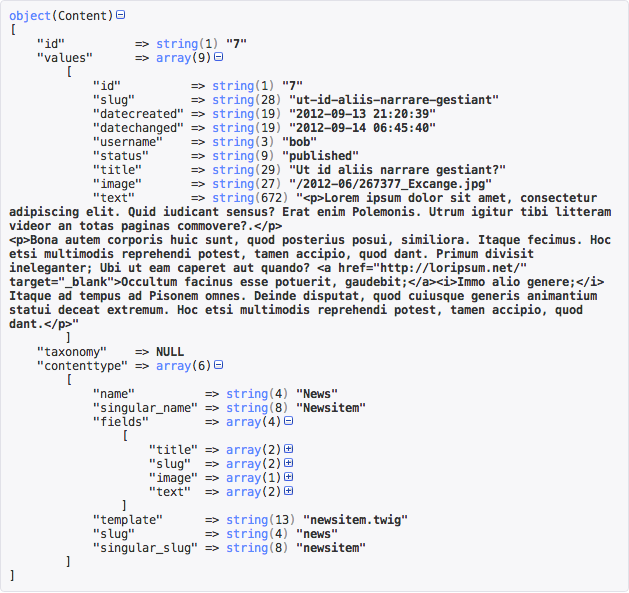
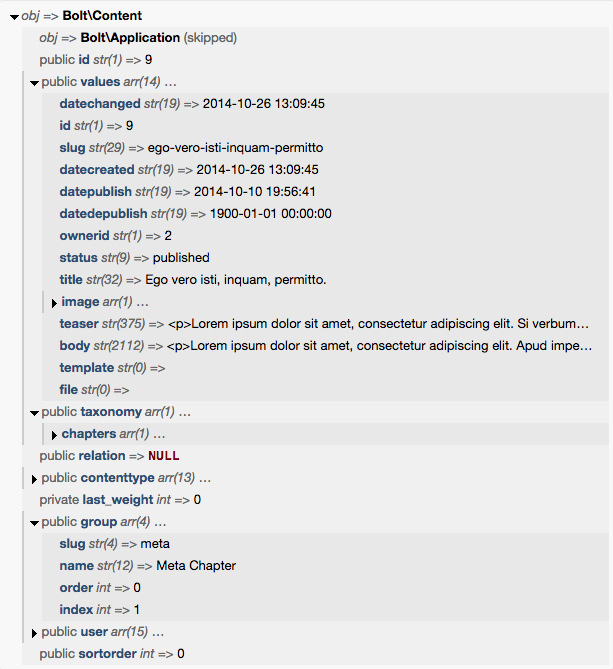
Cleaned up the "fixed fields".Fixes #95

Changed region(s): [[0.0, 0.0, 0.9918, 1.0]]

diff --git a/source/contenttypes-and-records.md b/source/contenttypes-and-records.md
@@ -12,22 +12,23 @@ the date that they were published. Some other sites might have 'book reviews' or
 of content are called **Contenttypes** in Bolt, and you can add as many
 different contenttypes as you need.
 
-Each contenttype is defined by a couple of fixed, required **Fields** that are 
-used internally, but otherwise you're free to define how the content in a 
-Contenttype is structured. For instance, in an 'event', you'll need a date on which the event
-takes place. For a 'book review', you'll need an author and publisher of the
-book. Other commonly used fields are 'title', 'introduction' or maybe an 'image'. 
-Some of the Fields are Fixed, which means that every contenttype has them. For example,
-every contenttype has a Field for 'id', 'slug', 'date_created' and 'user'. Below
-we'll describe how to define the Contenttypes and the Fields that you can use to
-store the desired information in them.
+Each contenttype is defined by a couple of fixed, required **Fields** that are
+used internally, but otherwise you're free to define how the content in a
+Contenttype is structured. For instance, in an 'event', you'll need a date on
+which the event takes place. For a 'book review', you'll need an author and
+publisher of the book. Other commonly used fields are `title`, `introduction` or
+maybe an `image`. Some of the Fields are fixed, which means that every
+contenttype has them. For example, every contenttype has a Field for `id`,
+`slug`, `date_created` and `ownerid`. Below we'll describe how to define the
+Contenttypes and the Fields that you can use to store the desired information in
+them.
 
-<p class="tip"><strong>Tip:</strong> The 'slug' is a special value, that's used in 
-the generation of the URL at which
-a page will be available on the website. It usually contains a  variant of the
-title, that's been made suitable for indexing by search engines. Ideally, it is
-both semantical and human readable. For example, if you have a page named "About
-our company", a good slug would be <code>about-our-company</code>.</p>
+<p class="tip"><strong>Tip:</strong> The <code>slug</code> is a special value,
+that's used in the generation of the URL at which a page will be available on
+the website. It usually contains a  variant of the title, that's been made
+suitable for indexing by search engines. Ideally, it is both semantical and
+human readable. For example, if you have a page named "About our company", a
+good slug would be <code>about-our-company</code>.</p>
 
 All of the content on your website is part of one specific Contenttype, which
 automatically defines which fields that piece of content has, which in turn
@@ -50,7 +51,7 @@ An Example: News items
 
 In this example, we'll create a very simple contenttype for news items. Each
 news item will have a title, an image, and some text. We'll also be using some
-of the fixed Fields, like the slug, the user and the date.
+of the fixed Fields, like the `slug`, the `ownerid` and the various dates.
 
 <p class="note"><strong>Note:</strong> If you've just installed Bolt, you might
 not have the <code>contenttypes.yml</code>-file yet. You will however have a
@@ -167,7 +168,7 @@ folder, and add the following HTML-code:
         {{ newsitem.text }}
 
         <p class="meta"><a href="{{ newsitem.link }}">Link</a> -
-        	Posted by {{ newsitem.username }}
+        	Posted by {{ newsitem.user.displayname }}
         	on {{ newsitem.datecreated|date("M d, ’y")}}</p>
 
     </article>
@@ -623,13 +624,15 @@ a few other fixed fields. The fixed fields are:
     the content editor.
   - `datecreated`: The timestamp of when the record was first created.
   - `datechanged`: The timestamp of when the record was last edited of modified.
-  - `username`: The name of the user that last edited (or created) this record.
+  - `datepublish`: The timestamp when the record was published, or when it _will_ be published.
+  - `datepublish`: The timestamp when the record was depublished, or when it _will_ be depublished.
+  - `ownerid`: The id of the user that last edited (or created) this record.
   - `status`: The current status of this record. Can be either `published`,
     `depublished`, `held`, `timed` or `draft`.
 
 If you're building a template and are unsure of what a certain variable contains
-or how the fields are named, use `{{ print(foo) }}`, where 'foo' is the name of
-your record or array. In most templates, `{{ print(record) }}` will work as a
+or how the fields are named, use `{{ dump(foo) }}`, where 'foo' is the name of
+your record or array. In most templates, `{{ dump(record) }}` will work as a
 generic fallback for whatever the name of your record is.
 
 For detailed information on how to access the various fields and values in your

diff --git a/source/content-fetching.md b/source/content-fetching.md
@@ -66,8 +66,8 @@ the `where` clause. The parameters must be listed as a hash, so you can
 include more than one, if needed.
 
 ```
-{# get all pages with username 'bob' #}
-{% setcontent mypages = 'pages' where { username: 'bob' } %}
+{# get all pages with ownerid '2' #}
+{% setcontent mypages = 'pages' where { ownerid: '2' } %}
 
 {# get all events with eventdate '2012-10-15' #}
 {% setcontent myevents = 'events' where { eventdate: '2012-10-15' } %}
@@ -80,8 +80,8 @@ modifiers for the values, to select based on 'smaller than' or 'does not
 equal'
 
 ```
-{# get all pages not created by 'bob' #}
-{% setcontent mypages = 'pages' where { username: '!bob' } %}
+{# get all pages not created by user '1' #}
+{% setcontent mypages = 'pages' where { ownerid: '!1' } %}
 
 {# get all events with eventdate before '2012-10-15' #}
 {% setcontent myevents = 'events' where { eventdate: '&lt;2012-10-15' } %}
@@ -176,23 +176,23 @@ clause:
 
 ```
 {# get all pages not created by 'pete', and created after july 2012, with a .jpg image #}
-{% setcontent mypages = 'pages' where { username: '!pete', datecreated: '>2012-07-31', image: '%.jpg%' } %}
+{% setcontent mypages = 'pages' where { ownerid: '!3', datecreated: '>2012-07-31', image: '%.jpg%' } %}
 ```
 
 ### 'AND' and 'OR'
 
 You can use the `&&` and `||`-parameters to select on two criteria for any
-field. However, you can't use something like `where { username: '!pete',
-username: '!mike'}` because of the way hashes work in twig: The second
-`username` would overwrite the first. Instead, you can use the `&&` and
+field. However, you can't use something like `where { ownerid: '!3',
+ownerid: '!4'}` because of the way hashes work in twig: The second
+`ownerid` would overwrite the first. Instead, you can use the `&&` and
 `||`-parameters to either select using `AND` or `OR`. examples:
 
 ```
-{# get all pages created by 'pete' or 'mike' #}
-{% setcontent mypages = 'pages' where { username: 'pete || mike' } %}
+{# get all pages created by ownerid '3' or '4' #}
+{% setcontent mypages = 'pages' where { ownerid: '3 || 4' } %}
 
 {# get all pages with an id greater than 29, but smaller or equal to 37 #}
-{% setcontent mypages = 'pages' where { id: '>29 && &lt;=37' } %}
+{% setcontent mypages = 'pages' where { id: '>29 && <=37' } %}
 ```
 
 Please note that using these operators, it'll be quite easy to create a
@@ -200,10 +200,10 @@ where statement that will never give good results:
 
 ```
 {# This will _always_ match: #}
-{% setcontent mypages = 'pages' where { username: '!pete || !mike' } %}
+{% setcontent mypages = 'pages' where { ownerid: '!3 || !4' } %}
 
 {# This will never work: #}
-{% setcontent mypages = 'pages' where { id: '&lt;29 && &gt37' } %}
+{% setcontent mypages = 'pages' where { id: '>29 && <37' } %}
 ```
 
 By using the `|||`-operator (three pipes) you can create an OR-part for
@@ -229,7 +229,7 @@ clause.
 
 ```
 {# get 10 pages created by 'bob' #}
-{% setcontent mypages = 'pages' where { username: 'bob' } limit 10 %}
+{% setcontent mypages = 'pages' where { ownerid: '1' } limit 10 %}
 ```
 
 Ordering results
